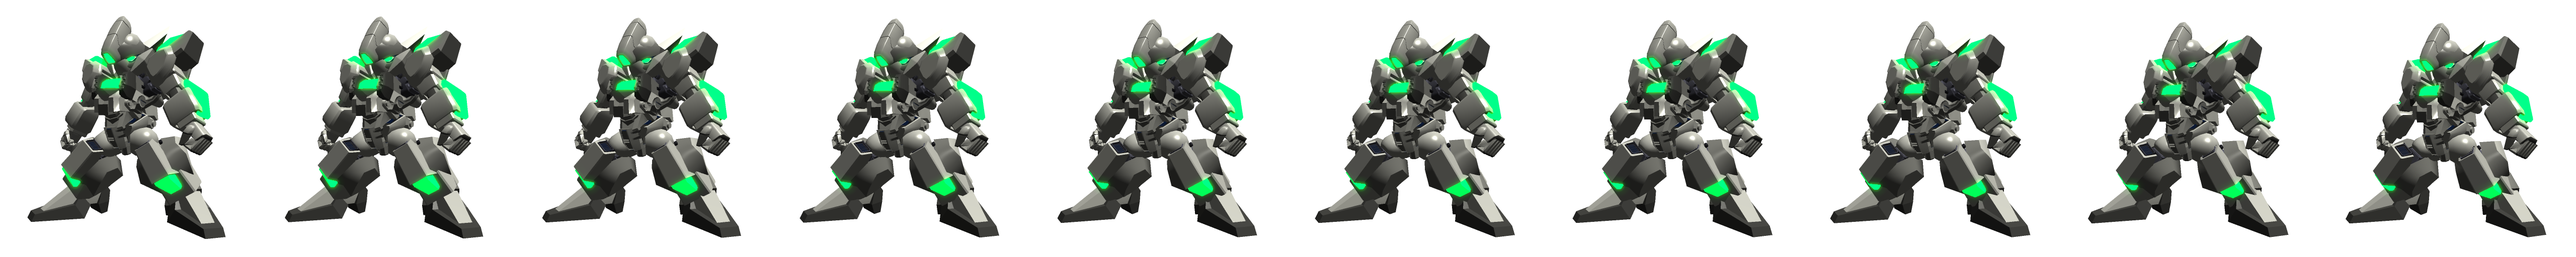
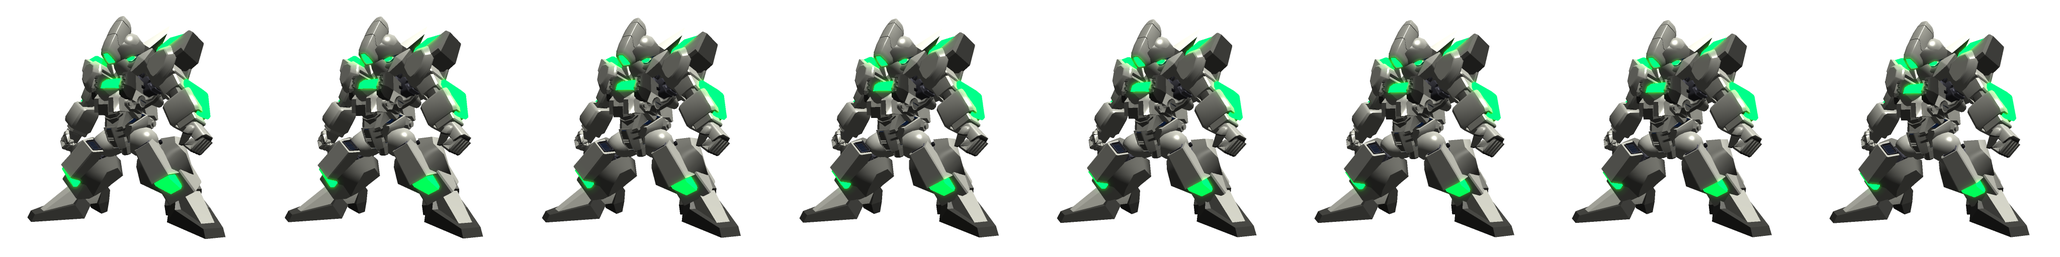
立ちポーズのコマ数を8にした

diff --git a/src/game-object/armdozer/shin-breaver/view/texture/stand.js b/src/game-object/armdozer/shin-breaver/view/texture/stand.js
@@ -7,7 +7,7 @@ import {TEXTURE_IDS} from "../../../../../resource/texture";
 import type {TextureResource} from "../../../../../resource/texture";
 import {createAnimatedTexture} from "../../../../../texture/texture-animation";
 
-export const MAX_ANIMATION = 10;
+export const MAX_ANIMATION = 8;
 
 /** 立ちアニメーション */
 export class StandAnimationTexture implements ArmdozerAnimationTexture {

diff --git a/src/resource/index.js b/src/resource/index.js
@@ -35,6 +35,11 @@ export async function loadAllResource(basePath: string): Promise<Resources> {
     loadAllTexture(basePath),
     loadAllCanvasImage(basePath),
   ]);
+
   return {
-    models, textures, tileMap, canvasImages};
+    models: models,
+    textures: textures,
+    tileMap: tileMap,
+    canvasImages: canvasImages
+  };
 }
